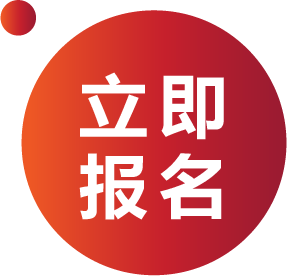
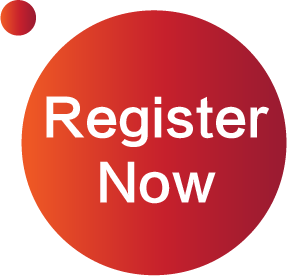
update

Changed region(s): [[0.1394, 0.2609, 0.9477, 0.8116]]

diff --git a/index.html b/index.html
@@ -178,11 +178,11 @@
                 </div>
                 <div class="card-description">
                   <p>
-                    <span class="dot">•</span> 在指定门店消费可抵服务费$100
+                    <span class="dot">•</span> $100 discount service fee at selected stores
                     <br>
-                    <span class="dot">•</span> 本券每人仅限使用一次，且不与其他 优惠同享 </p>
+                    <span class="dot">•</span> This voucher can only be used for once per person and cannot be used in conjunction with other offers. </p>
                   <p class="card-address">
-                    地址: Level 4, 280 Pitt Street, Sydney
+                    Address: Level 4, 280 Pitt Street, Sydney  <br> Valid to: 31st Dec 2018
                   </p>
                 </div>
               </div>
@@ -489,7 +489,7 @@
           </p>
           <div class="under-line"></div>
           <p class="aisf-description">
-            AISF全称Australia International Student Festival，中文是澳大利亚国际留学生节，是澳洲首个为国际留学生准备的大型互动体验节日。由AISF组委会主办，旨在为赴澳留学的国际学生们提供多元化的信息和优质服务，立志打造关注澳洲留学生校内外生活信息服务的一站式平台。
+            AISF is short for Australia International Students Festival. It is the first large-scale festival focusing on international students’activities and experience in Australia. Unlike the traditional education exhibitions where students can only interact with representatives from universities or other education providers, the AISF committee has upgraded it to a new level. <br>The Committee is aiming to build a comprehensive platform which provides international students varieties of quality service and information from education institutes as well as companies from different industries, achieving a one-stop platform for information access to all they need while studying in Australia.
           </p>
         </div>
       </div>
@@ -509,13 +509,13 @@
           </p>
           <div class="under-line"></div>
           <p class="aisf-description">
-            为了满足广大在澳生活的国际留学生们对美食和服务上的优惠需求，AISF组委会特别推出了ALL PASS福利卡。凭借此卡即能享受各大商家持续更新的优惠长达一年之久！同时AISF组委会将不断扩充和提升商家的数量与质量，不断升级大家在澳的吃喝玩乐消费体验。
+            The Allpass Discount Card is specially launched by the AISF Committee, offering a variety of special offers and discounts exclusive to international students in dining, entertainment, shopping and other services. The Discount Card will be valid for a year. Meanwhile, the Committee will be endeavour to increase the number of collaborative shops, restaurants and other service providers as well as the amount of discounts.  
           </p>
         </div>
       </div>
       <div class="obtain-button-wrapper">
         <button class="register-button" id="m-button">
-          点击获取
+          Click me
         </button>
       </div>
     </div>
@@ -524,12 +524,12 @@
     <div class="business-wrapper container">
       <div class="row" style="padding-bottom: 50px;">
         <p class="title-center">
-          ALL PASS 商家优惠
+          ALL PASS partners 
         </p>
         <div class="under-line" style="margin: 0 auto"></div>
         <div style="padding: 5px;"></div>
         <div class="business-updating" style="text-align: center; font-size: 12px; font-weight: bold; padding-top: 10px; color:grey;">
-          <p>商家持续更新中...</p>
+          <p>More partners are coming in….</p>
         </div>
 
         <!-- right card   -->
@@ -541,11 +541,9 @@
 
             <div class="card-description">
               <p>
-                <span class="dot">•</span> 消费美甲/美睫项目$100刀以下减$5
-                <br>
-                <span class="dot">•</span> 消费美甲/美睫项目$100刀及以上减$10</p>
+                <span class="dot">•</span> $10 discount for Nail art and Eyelashes above $100</p>
               <p class="card-address">
-                地址: 509, 368 Sussex Street, Sydney 有效期: 2018年12月31日
+                Address: 509, 368 Sussex Street, Sydney <br> Valid to: 31st Dec 2018
               </p>
             </div>
           </div>
@@ -556,12 +554,11 @@
 
             <div class="card-description">
               <p>
-                <span class="dot">•</span> 凭此卡消费满$100立减$10
+                <span class="dot">•</span> $100 discount service fee at selected stores
                 <br>
-                <span class="dot">•</span> 此优惠不可与其他活动同时使用</p>
+                <span class="dot">•</span> This voucher can only be used for once per person and cannot be used in conjunction with other offers.</p>
               <p class="card-address">
-                地址: Level 1 Chinatown Center
-                <br> 有效期: 2018年10月31日
+                Address: Level 4, 280 Pitt Street, Sydney <br> Valid to: 31st Dec 2018
               </p>
             </div>
           </div>
@@ -573,53 +570,54 @@
 
             <div class="card-description">
               <p>
-                <span class="dot">•</span> 在austickets.com.au上购买任意4张门票，即可获赠电影票1张
+                <span class="dot">•</span> Purchase any four tickets on austickets.com.au and receive one movie ticket for free.
                 <br>
+                <span class="dot">•</span> Valid to: 31st Dec 2018 
+                <br> 
+                
+
               <p class="card-address">
-                客服微信号:AusTickets_CS
-                <br> 有效期:2018年12月31日
+                Customer Service Wechat: AusTickets_CS<br>
+            </div>
+          </div>
+          <div class="card">
+            <div class="card-image">
+              <img src="./assets/logo-12.JPG" alt="">
+            </div>
+            <div class="card-description">
+              <p>
+                <span class="dot">• </span>【Take Photos of your Youth】The most beautiful photo shooting for the graduation season. The original price is $699. The discount price is $399 for card holders.
+                <br>
+
+              </p>
+              <p class="card-address">
+                The strongest photography studio in Australia<br>
+                Tel. ：0450667883 <br>
+                Wechat:FourSeasFilm
               </p>
             </div>
           </div>
-          <div class="card">
+            <div class="card">
               <div class="card-image">
-                <img src="./assets/logo-12.JPG" alt="">
+                <img src="./assets/logo-14.jpeg" alt="">
               </div>
+
               <div class="card-description">
                 <p>
-                  <span class="dot">• </span>【青春不删档】最美毕业季校园写真，原价$699，凭卡可享优惠价$399
+                  <span class="dot">•</span> 5% discount for the order for card holders, with one drink for free (per table)
                   <br>
-
-                </p>
-                <p class="card-address">
-                  南半球地表最强的摄影工作室<br>
-                  电话：0450667883 <br>
-                  客服微信号:FourSeasFilm
-                </p>
+                  <span class="dot">•</span> 10% discount for $100 and above, with one Harbin Beer Super Fresh for free (per table)
+                  <br>
+                  <span class="dot">•</span> For $200 and above, one free large Harbin Beer Ice Pure (per table)
+                  <span class="dot">•</span> All beer is $5 per bottle and all large ice pure is $8 per bottle.
+                  <br>
+                  <span class="dot">•</span> Purchase four Harbin Beer Super Fresh/ Ice Pure and receive one free.
+                  <p class="card-address">
+                    Address：257 Forest Road, Hurstville
+                    <br> Reservation Tel: ：02 8958 8405 / 0458 012 345
+                  </p>
               </div>
             </div>
-          <div class="card">
-            <div class="card-image">
-              <img src="./assets/logo-14.jpeg" alt="">
-            </div>
-
-            <div class="card-description">
-              <p>
-                <span class="dot">•</span> 凭卡即享全单95折，另送饮料一瓶（每桌）
-                <br>
-                <span class="dot">•</span> 消费满$100以上，全单9折，另送哈啤超鲜（每桌）
-                <br>
-                <span class="dot">•</span> 消费满$200以上，送大瓶哈啤冰纯（每桌）
-                <br>
-                <span class="dot">•</span> 凭卡所有啤酒$5/瓶，大瓶冰纯$8/瓶
-                <br>
-                <span class="dot">•</span> 消哈尔滨哈啤超鲜，冰纯买四送一
-                <p class="card-address">
-                  地址：257 Forest Road, Hurstville
-                  <br> 预约电话：02 8958 8405 / 0458 012 345
-                </p>
-            </div>
-          </div>
           <div class="card">
               <div class="card-image">
                 <img src="./assets/logo-17.PNG" alt="">
@@ -661,15 +659,13 @@
             <div class="card-image">
               <img src="./assets/LOGO-04.png" alt="">
             </div>
-
             <div class="card-description">
               <p>
-                <span class="dot">•</span> 在指定门店消费可抵服务费$100
+                <span class="dot">•</span> $100 discount service fee at selected stores
                 <br>
-                <span class="dot">•</span> 本券每人仅限使用一次，且不与其他 优惠同享</p>
+                <span class="dot">•</span> This voucher can only be used for once per person and cannot be used in conjunction with other offers. </p>
               <p class="card-address">
-                地址: Level 4, 280 Pitt Street, Sydney
-                <br>有效期: 2018年12月31日
+                Address: Level 4, 280 Pitt Street, Sydney  <br> Valid to: 31st Dec 2018
               </p>
             </div>
           </div>
@@ -679,13 +675,13 @@
             </div>
             <div class="card-description">
               <p>
-                <span class="dot">• </span>所有商品9.5折（包括已打折商品，烟酒除外）
+                <span class="dot">• </span>•	5% discount for all items (including all discount items, excluding tobacco and liquor)
                 <br>
 
               </p>
               <p class="card-address">
-                Hurstville最亲民、最前沿的超市，从尿布到烟酒一应俱全，各国小食品定能满足吃货们的胃。
-                <br> 地址： Shop 4，458 Forest Road Hurstville
+                Aukelong is the most convenient supermarket with the largest amount of goods, from daily grocery to tobacco and liquor. All food and drink from all over the world can definitely suit eat lovers.
+                <br> Address: Shop 4, 458 Forest Road, Hurstville
               </p>
             </div>
           </div>
@@ -695,15 +691,15 @@
             </div>
             <div class="card-description">
               <p>
-                <span class="dot">•</span> 消费$30以上95折
+                <span class="dot">•</span> 5% discount for $30 and above
                 <br>
-                <span class="dot">•</span> 消费$50以上88折
+                <span class="dot">•</span> 12% discount for $50 and above
                 <br>
-                <span class="dot">•</span> 消费$100以上85折
+                <span class="dot">•</span> 15% discount for $100 and above
                 <br>
                 <p class="card-address">
-                  家味北方熟食精选澳洲本地新鲜食材，采用传统北方熏制工艺，为悉尼华人带来最正宗传统的美食，中央式厨房保证品质，肉香四溢，味美醇香，是家庭聚餐，日常解馋的第一选择！
-                  <br>地址：Shop 10 ,6 Progress Ave,Eastwood 
+                  The taste of home selects the local Australian fresh food, adopts the traditional Chinese Northern cooking method and provides the most traditional delicious food for Chinese in Sydney. The central kitchen provides quality assurance, the food is of the best taste and the diners can enjoy the taste, which is the first choice for daily eating.
+                  <br>Address：Shop 10 ,6 Progress Ave,Eastwood 
                   <br>257 Forest Road, Hurstville 
                 </p>
             </div>
@@ -714,49 +710,50 @@
             </div>
             <div class="card-description">
               <p>
-                <span class="dot">• </span>凭卡可享全单九折优惠
-                <br>
+                <span class="dot">• </span>10% discount for All-passcard holders.
+                
               </p>
               <p class="card-address">
                 02 8385 4940
                 <br> http://katsumi.com.au
                 <br>
-                <span>Katsumi Restaurant will open the doors to the public. Located in the Mortlake peninsula in a quite village
-                  like setting, just freshly renovated and restored it has become a modern & charming Japanese fusion restaurant.
+                <span style="font-family: 'Microsoft YaHei'; letter-sapcing:2px;">Katsumi Restaurant will open the doors to the public. Located in the Mortlake peninsula in a quite village
+                  like setting, just freshly renovated and restored it has become a modern & charming Japanese fusion
+                  restaurant.
                 </span>
               </p>
 
             </div>
           </div>
           <div class="card">
-            <div class="card-image">
-              <img src="./assets/logo-15.jpeg" alt="">
-            </div>
-            <div class="card-description">
-              <p>
-                <span class="dot">• </span>【凭卡即享全单9折】
-                <br>
-              </p>
-              <p class="card-address">
-                地址：Basement 139 York st Sydney 2000
-              </p>
-            </div>
-          </div>
-          <div class="card">
-            <div class="card-image">
-              <img src="./assets/logo-16.jpg" alt="">
-            </div>
+                <div class="card-image">
+                  <img src="./assets/logo-15.jpeg" alt="">
+                </div>
+                <div class="card-description">
+                  <p>
+                    <span class="dot">• </span>【10% discount for all orders for card holders】
+                    <br>
+                  </p>
+                  <p class="card-address">
+                    Address：Basement 139 York st Sydney 2000
+                  </p>
+                </div>
+              </div>
+              <div class="card">
+                <div class="card-image">
+                  <img src="./assets/logo-16.jpg" alt="">
+                </div>
 
-            <div class="card-description">
-              <p>
-                <span class="dot">•</span> 凭此卡消费满$100，赠送以下菜品一份（四选一）： 一把小软骨、一份烤羊肉串、一碗冒烤脑花、两个烤生蚝
-                <br>
-                <p class="card-address">
-                  Lu串坐落在chinatown最核心地区帝城大厦一楼南头。它把烤串，啤酒与音乐做完美结合。给您带来街边小吃那最洒脱感受，同时也不失文艺范。
-                  <br>地址：level 2，20 Dixon St, Sydney
-                </p>
-            </div>
-          </div>
+                <div class="card-description">
+                  <p>
+                    <span class="dot">•</span> For $100 and above, one of the four following dishes will be provided for free (one of four): one small cartilage, one kebab, one roasted brain flower, two grilled oysters. 
+                    <br>
+                    <p class="card-address">
+                      Skewer Bar is located in the southern end of the central area Kingstown Hall at Chinatown, which brings skewers, beer and music all together perfectly and provides the most comfortable atmosphere of street food for you, with a strong sense of art.
+                      <br>Address：level 2，20 Dixon St, Sydney
+                    </p>
+                </div>
+              </div>
 
 
 

diff --git a/style/style.css b/style/style.css
@@ -413,6 +413,7 @@ body {
 
   .title{
     margin-top: 30px;
+    text-align: center;
   }
 
   .title .aisf-title{
